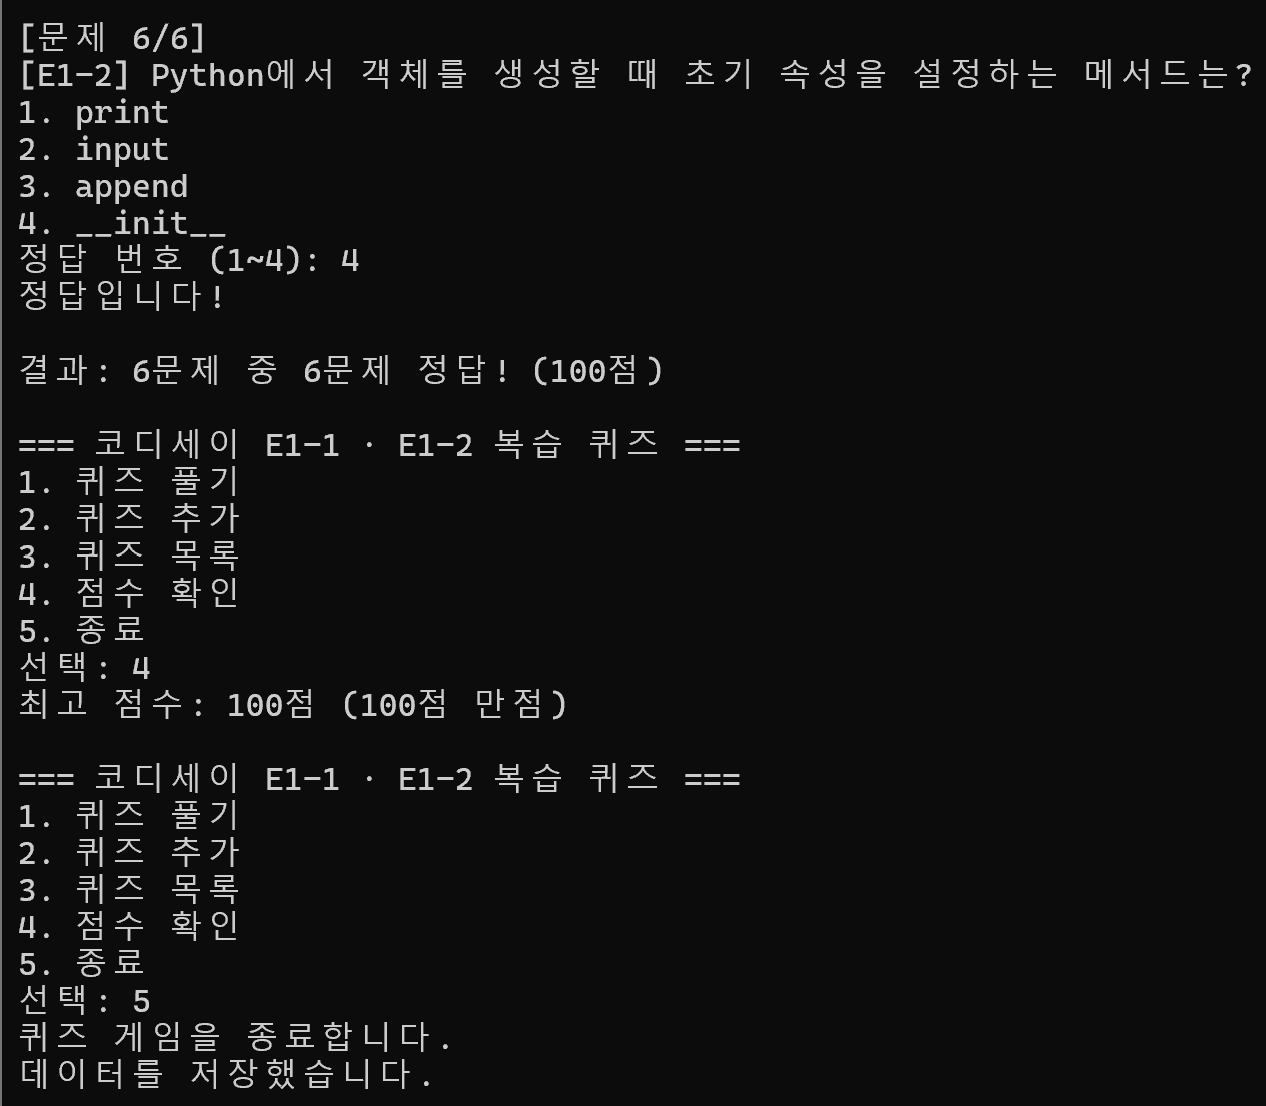
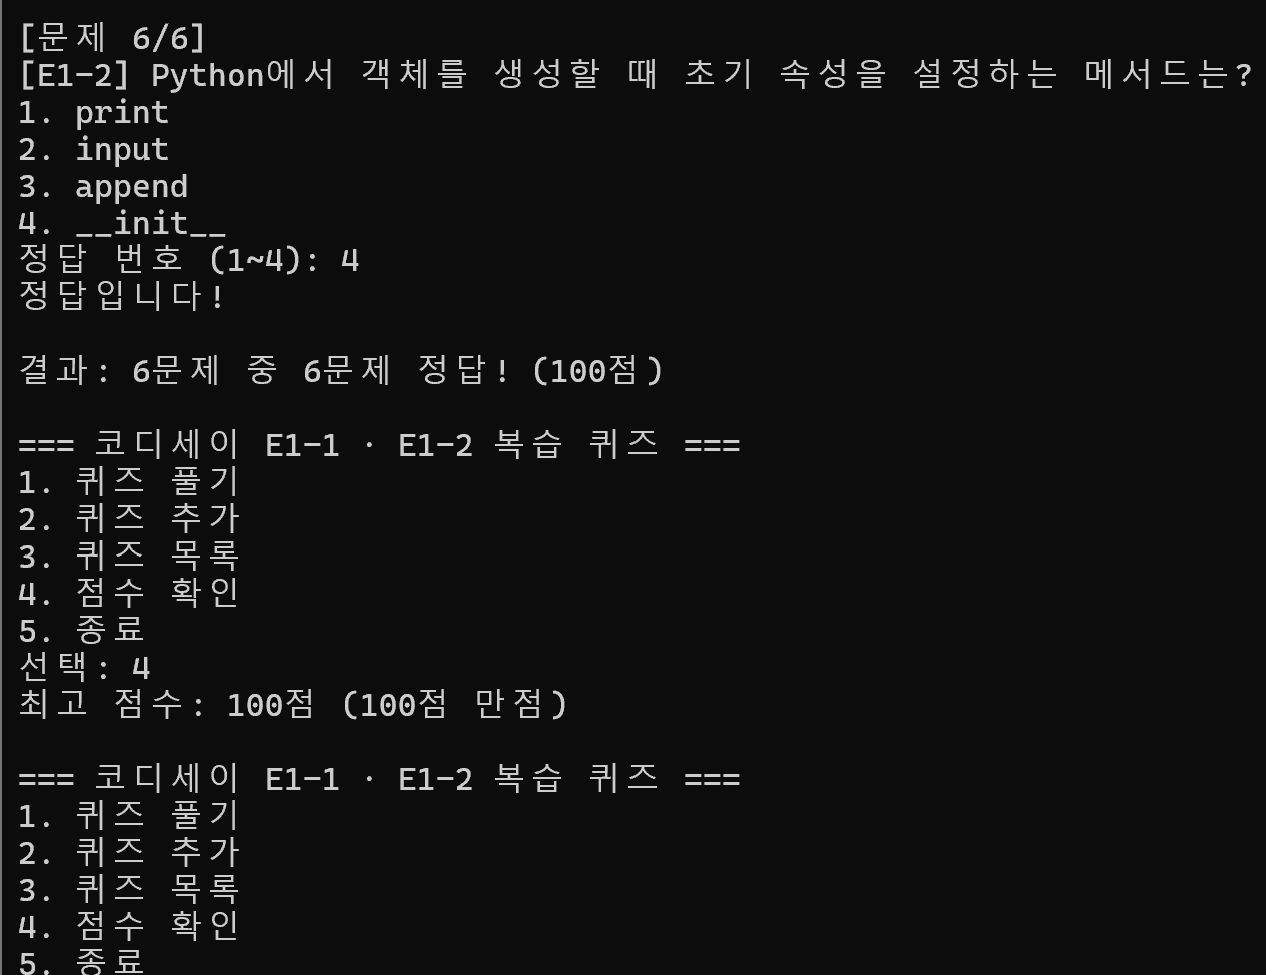
Docs: 실행 화면을 기능별로 잘라 README에 반영

diff --git a/README.md b/README.md
@@ -244,12 +244,12 @@ git pull
 
 ### 퀴즈 실행
 
-퀴즈 추가 후 총 6문제를 풀어 100점을 기록했습니다. 최고 점수 확인과 종료 시 저장 안내도 확인했습니다.
+퀴즈 추가 후 총 6문제를 풀어 100점을 기록했습니다. 아래 화면은 등록 입력과 완료 안내, 출제와 정답 판정, 최종 결과와 최고 점수가 보이도록 잘랐습니다.
 
-![퀴즈 추가 완료 및 출제 시작](docs/screenshots/quiz-add.png)
+![퀴즈 등록 입력 및 추가 완료](docs/screenshots/quiz-add.png)
 
 ![퀴즈 출제와 정답 판정](docs/screenshots/quiz-play.png)
 
-![플레이 결과, 최고 점수 및 종료 시 저장](docs/screenshots/quiz-score.png)
+![플레이 결과와 최고 점수 확인](docs/screenshots/quiz-score.png)
 
 퀴즈 목록 화면은 추가 촬영이 필요합니다.
